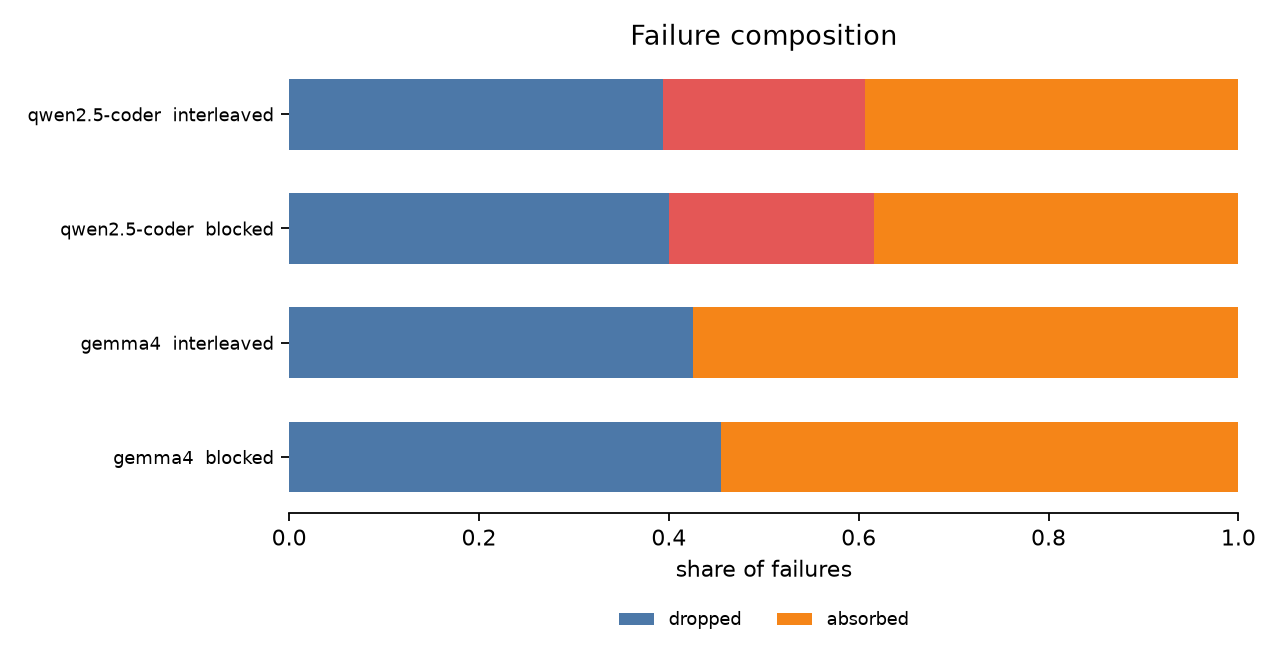
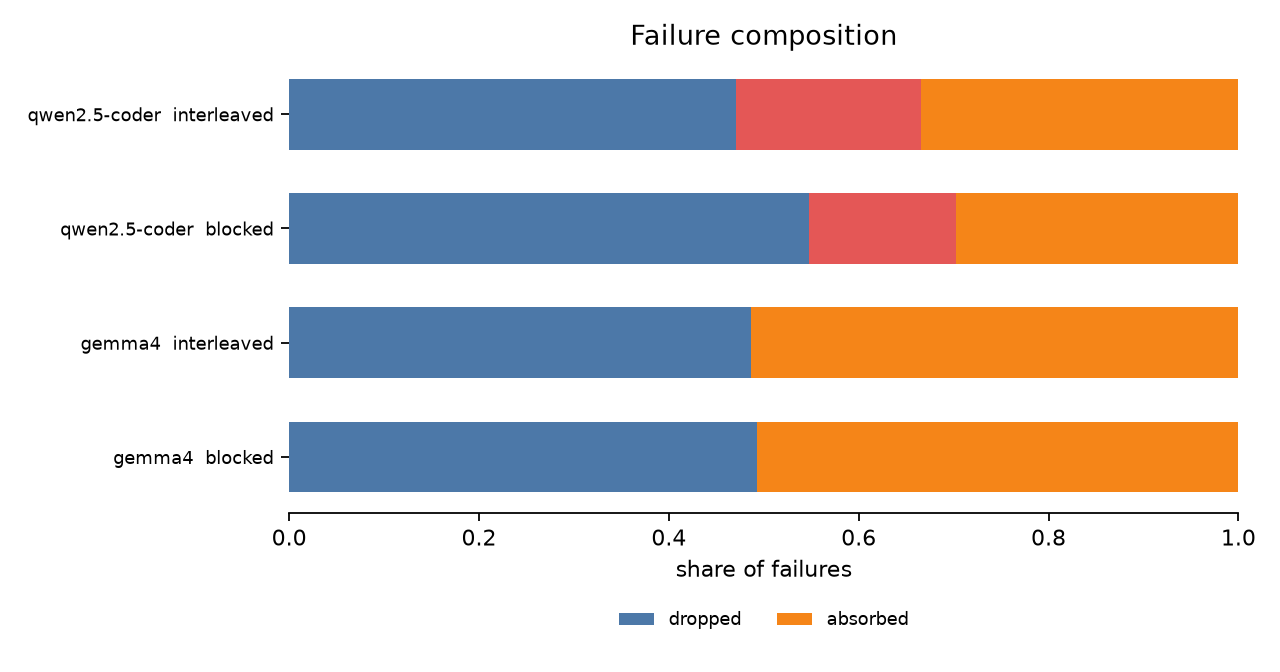
same_kind_2 resolves the confound: similarity drives misattribution, not task count
The decisive cell ran. On qwen2.5-coder:7b, holding same-kind pairs at 1 and
raising task count 2 -> 3 moves misattribution 12 -> 8, DOWN; holding task count
at 2 and raising pairs 0 -> 1 moves it 0 -> 12. The claim I nearly published --
that misattribution scales with concurrent task count -- was wrong.

Corrects a second claim I had already written into four files. I read the ordering
split off tasks_4 alone (25 blocked / 34 interleaved, 1.4x) and concluded
interleaving was incidental. The clean cell is 2 blocked / 10 interleaved, 5x.
Accurate statement: similarity is NECESSARY (zero events in every zero-pair cell
under both orderings, 200 conversations) and interleaving AMPLIFIES it 1.7x
overall, but is not required -- blocked produces 29 of 79 events.

Unanticipated result from the same cell: at identical task count, ops and padding,
a second shopping list instead of a calendar takes qwen from 0.640 blocked to
0.000. Two similar tasks are harder than four dissimilar ones (0.400). That cell
is on the floor so its ordering delta is uninterpretable; gemma4:12b's copy is not
(0.880 -> 0.720) and logs zero misattribution across all 350 of its conversations.

Full sweep: 700 rows, 700/700 token-matched, zero drift. 591 tests green.

Claude-Session: https://claude.ai/code/session_01GsfWd5EhxNP3EDk11DMtDE

diff --git a/tools/make_readme_results.py b/tools/make_readme_results.py
@@ -150,13 +150,14 @@ else:
         f"\nTwo things keep this from being a clean task-count effect. First, kinds have "
         f"disjoint vocabularies, so a same-kind pair is the *only* place a misattribution "
         f"can occur — and under the canonical composition the pair count rises in lockstep "
-        f"with the task count, so the two cannot be separated by the count cells alone. "
-        f"That is what the `same_kind_2` cell exists to break. Second, the events split "
-        f"{by_ord['blocked']} blocked / {by_ord['interleaved']} interleaved: substantial "
-        f"misattribution happens in *blocked* ordering, where same-kind lists are never "
-        f"interleaved with each other at all. Similarity drives the bulk of it and "
-        f"ordering modulates it. The joint-accuracy delta above is a genuine ordering "
-        f"effect; this count largely is not.")
+        f"with the task count. The `same_kind_2` cell breaks that collinearity: at one "
+        f"same-kind pair, raising the task count from 2 to 3 moves the event count *down*, "
+        f"while at two tasks, raising the pair count from 0 to 1 moves it from zero. "
+        f"Similarity drives misattribution; task count does not. Second, the events split "
+        f"{by_ord['blocked']} blocked / {by_ord['interleaved']} interleaved: interleaving "
+        f"amplifies the count substantially, but blocked ordering — where same-kind lists "
+        f"never interleave — still produces a large share, so interleaving is an amplifier "
+        f"rather than the cause. See docs/LIMITATIONS.md 5b.")
 
 per_task, clusters = [], []
 for r in rows:

diff --git a/docs/LIMITATIONS.md b/docs/LIMITATIONS.md
@@ -186,64 +186,95 @@ raise misattribution sharply.
 
 ---
 
-## 5b. Misattribution tracks same-kind *pairs*, which this design cannot separate from task count
+## 5b. Misattribution is driven by similarity, not by task count — the confound, and how it resolved
 
-This is the sharpest confound in the new arm, and it undercuts the obvious reading of the
-headline number.
+The task-count arm produced a clean monotone story: misattribution **0 → 8 → 59** across
+2, 3 and 4 tasks. The obvious reading is that concurrent tasks interfere and more tasks
+interfere more. That reading was not identified by the data.
 
 `tasks_for(n)` deals from `TASK_POOL = [SHOPPING, SCHEDULE]` round-robin, so the number of
 *same-kind pairs* — the only pairs between which misattribution is even possible, since
-the vocabularies of different kinds are disjoint — rises in lockstep with task count:
+different kinds draw disjoint vocabularies — rose in lockstep with task count. Pair count
+and task count were perfectly collinear across every cell in the sweep, so the design
+could not attribute the effect to either.
 
-| tasks | slots | same-kind pairs | misattribution events |
-|---:|---|---:|---:|
-| 1 | `shopping_0` | 0 | 0 |
-| 2 | `shopping_0, schedule_0` | 0 | 0 |
-| 3 | `+ shopping_1` | 1 | 8 |
-| 4 | `+ schedule_1` | 2 | 59 |
+`same_kind_2` (`tasks: [shopping, shopping]`, D18) breaks the collinearity: two tasks, one
+same-kind pair. **`qwen2.5-coder:7b`:**
 
-Pair count and task count are perfectly collinear across the cells actually run. So the
-claim the data supports is **"misattribution requires a confusable neighbour,"** not
-"misattribution grows with the number of concurrent tasks." Those are different claims
-and I can only demonstrate the first. A 4-task conversation over four *distinct* kinds
-might show none at all.
+| condition | tasks | same-kind pairs | misattribution events | conversations |
+|---|---:|---:|---:|---|
+| `len_medium` | 2 | 0 | 0 | 0/50 |
+| **`same_kind_2`** | **2** | **1** | **12** | 6/50 |
+| `tasks_3` | 3 | 1 | 8 | 5/50 |
+| `tasks_4` | 4 | 2 | 59 | 23/50 |
 
-**The experiment that separates them is one config line, and it is now shipped.** The
-`same_kind_2` cell is `tasks: [shopping, shopping]` — two tasks, one same-kind pair —
-which breaks the collinearity:
+Read the middle two rows against each other: **pair count held at 1, task count raised
+from 2 to 3, and misattribution went 12 → 8** — down, not up. Read the first two: task
+count held at 2, pair count raised from 0 to 1, and it went **0 → 12**.
 
-| cell | tasks | same-kind pairs |
-|---|---:|---:|
-| `len_medium` | 2 | 0 |
-| `same_kind_2` | 2 | **1** |
-| `tasks_3` | 3 | 1 |
+**Task count does not drive misattribution. A confusable neighbour does.** The claim I
+nearly published — that misattribution scales with the number of concurrent tasks — was
+wrong, and the arm that appeared to show it would have shown it just as convincingly if
+the mechanism had been anything else that happened to co-vary.
 
-`len_medium` and `same_kind_2` hold task count fixed and vary pair count; `same_kind_2`
-and `tasks_3` hold pair count fixed and vary task count. Misattribution in `same_kind_2`
-means similarity is the driver and the count is incidental; none means the count matters
-in its own right.
+What remains unseparated is the jump at two pairs (8–12 events at one pair, 59 at two).
+That is superlinear rather than additive, but `tasks_4` is the only two-pair cell, so
+whether that is a pair-count effect or a four-task effect is exactly the ambiguity this
+section began with, one level up. Saying so is cheaper than running the cell that would
+settle it, and I have not run it.
 
-Making this expressible needed a real change, not just a config edit — cells were
-specified by *count* only, and the cell id `t{n}_o{ops}_n{noise}` could not tell
-`[shopping, schedule]` from `[shopping, shopping]` (D18). The library never assumed
-distinct kinds; `build_states`, `order_ops` and the scorer all key on slot, so the
-constraint was entirely in the CLI.
+### Similarity is necessary; interleaving amplifies it
 
-### Interleaving is not the main cause of misattribution
+Splitting the events by ordering, on qwen:
 
-Splitting the events by ordering is deflationary in a way worth saying out loud:
+| cell | same-kind pairs | blocked | interleaved | ratio |
+|---|---:|---:|---:|---:|
+| every zero-pair cell | 0 | 0 | 0 | — |
+| `same_kind_2` | 1 | 2 (1/25 convs) | 10 (5/25 convs) | 5.0x |
+| `tasks_3` | 1 | 2 (1/25) | 6 (4/25) | 3.0x |
+| `tasks_4` | 2 | 25 (11/25) | 34 (12/25) | 1.4x |
+| **total** | | **29** | **50** | **1.7x** |
 
-| cell | blocked | interleaved |
-|---|---:|---:|
-| 3 tasks | 2 events (1/25 convs) | 6 events (4/25 convs) |
-| 4 tasks | 25 events (11/25 convs) | 34 events (12/25 convs) |
+Two claims, and only the first is about the design's headline variable:
 
-Misattribution is substantial in *blocked* ordering, where the two shopping lists are
-never interleaved with each other at all. Interleaving adds roughly a third on top. So the
-mechanism is mostly "two similar states in one context bleed together," with ordering as a
-secondary modulator — **not** "switching between them causes the bleed." The joint-accuracy
-delta remains a genuine ordering effect; the misattribution count largely is not, and
-reporting it as one would overclaim.
+1. **Similarity is necessary.** Zero events in every zero-pair cell, under *both*
+   orderings, across 200 qwen conversations. No amount of interleaving produces a
+   misattribution when there is nothing confusable to misattribute to.
+2. **Interleaving amplifies it substantially** — 1.7x overall, and 5x in `same_kind_2`,
+   the cleanest cell. It is not merely a modulator.
+
+But it is not *required*: blocked ordering produces 29 events, so a design that only ever
+presented tasks in blocks would still have found the failure. I first wrote this
+subsection reading only `tasks_4`, whose 1.4x ratio is the weakest in the table, and
+concluded interleaving was incidental. Reading the cell that was built to be clean says
+otherwise. The lesson is the one this document keeps relearning: the cell with the most
+events is not the cell with the most signal.
+
+### Similarity costs far more accuracy than task count does
+
+The same cell produced a second result I did not anticipate. At **identical** task count,
+operation count and padding, swapping the second task from a different kind to the same
+kind costs `qwen2.5-coder:7b` its entire score:
+
+| qwen cell | second task | blocked joint accuracy |
+|---|---|---:|
+| `len_medium` | a calendar | 0.640 |
+| `same_kind_2` | a second shopping list | **0.000** |
+| `tasks_4` | three more tasks | 0.400 |
+
+Two *similar* tasks are harder than four *dissimilar* ones. `gemma4:12b` shows the same
+sign at a fraction of the size (0.880 → 0.720) and **zero misattribution in all 350 of its
+conversations**, including both same-kind cells — it keeps two shopping lists apart where
+qwen cannot.
+
+**Two caveats on this cell.** First, qwen's `same_kind_2` sits on the **floor** (0.000
+blocked, 0.040 interleaved), so its ordering delta is uninterpretable — you cannot fall
+below zero. It answers "does similarity hurt?" decisively and "does interleaving hurt when
+tasks are similar?" not at all. Lifting it off the floor needs a lower `n_ops` for that
+cell, which is the same per-cell calibration gap as §4. gemma's copy is not at the floor,
+so its +4.0pp is interpretable, and it shows no switch cost. Second, "similarity" here
+bundles same-kind structure with overlapping item semantics; the design does not separate
+those two either.
 
 ---
 

diff --git a/results/RESULTS.md b/results/RESULTS.md
@@ -20,11 +20,14 @@ value there would invalidate everything below it.
 | `gemma4:12b` | len_short *(exploratory)* | 25 | 0.80 <sub>[0.61,0.91]</sub> | 0.88 <sub>[0.70,0.96]</sub> | +8.0 | [+0.0, +20.0] | 0/2 | 0.500 |
 | `gemma4:12b` | len_medium *(exploratory)* | 25 | 0.88 <sub>[0.70,0.96]</sub> | 0.96 <sub>[0.80,0.99]</sub> | +8.0 | [+0.0, +20.0] | 0/2 | 0.500 |
 | `gemma4:12b` | len_long *(exploratory)* | 25 | 0.96 <sub>[0.80,0.99]</sub> | 0.84 <sub>[0.65,0.94]</sub> | -12.0 | [-28.0, +4.0] | 4/1 | 0.375 |
+| `gemma4:12b` | same_kind_2 *(exploratory)* | 25 | 0.72 <sub>[0.52,0.86]</sub> | 0.76 <sub>[0.57,0.89]</sub> | +4.0 | [-16.0, +24.0] | 3/4 | 1.000 |
 | `gemma4:12b` | tasks_3 *(exploratory)* | 25 | 0.68 <sub>[0.48,0.83]</sub> | 0.64 <sub>[0.45,0.80]</sub> | -4.0 | [-24.0, +16.0] | 4/3 | 1.000 |
+| `gemma4:12b` | tasks_4 *(exploratory)* | 25 | 0.72 <sub>[0.52,0.86]</sub> | 0.64 <sub>[0.45,0.80]</sub> | -8.0 | [-28.0, +12.0] | 4/2 | 0.688 |
 | `qwen2.5-coder:7b` | ctrl_1task *(control)* | 25 | 0.32 <sub>[0.17,0.52]</sub> | 0.32 <sub>[0.17,0.52]</sub> | +0.0 | [+0.0, +0.0] | 0/0 | 1.000 |
 | `qwen2.5-coder:7b` | len_short *(exploratory)* | 25 | 0.84 <sub>[0.65,0.94]</sub> | 0.68 <sub>[0.48,0.83]</sub> | -16.0 | [-36.0, +0.0] | 5/1 | 0.219 |
 | `qwen2.5-coder:7b` | len_medium **(PRIMARY)** | 25 | 0.64 <sub>[0.45,0.80]</sub> | 0.52 <sub>[0.33,0.70]</sub> | -12.0 | [-36.0, +12.0] | 6/3 | 0.508 |
 | `qwen2.5-coder:7b` | len_long *(exploratory)* | 25 | 0.56 <sub>[0.37,0.73]</sub> | 0.44 <sub>[0.27,0.63]</sub> | -12.0 | [-36.0, +12.0] | 6/3 | 0.508 |
+| `qwen2.5-coder:7b` | same_kind_2 *(exploratory)* | 25 | 0.00 <sub>[0.00,0.13]</sub> | 0.04 <sub>[0.01,0.20]</sub> | +4.0 | [+0.0, +12.0] | 0/1 | 1.000 |
 | `qwen2.5-coder:7b` | tasks_3 *(exploratory)* | 25 | 0.40 <sub>[0.23,0.59]</sub> | 0.20 <sub>[0.09,0.39]</sub> | -20.0 | [-36.0, -4.0] | 5/0 | 0.062 |
 | `qwen2.5-coder:7b` | tasks_4 *(exploratory)* | 25 | 0.40 <sub>[0.23,0.59]</sub> | 0.12 <sub>[0.04,0.30]</sub> | -28.0 | [-48.0, -8.0] | 8/1 | 0.039 |
 
@@ -32,21 +35,21 @@ value there would invalidate everything below it.
 
 | model | ordering | dropped | misattributed | absorbed | format | n failures |
 |---|---|---:|---:|---:|---:|---:|
-| `gemma4:12b` | blocked | 48% | 0% | 52% | 0% | 44 |
-| `gemma4:12b` | interleaved | 44% | 0% | 56% | 0% | 39 |
-| `qwen2.5-coder:7b` | blocked | 40% | 22% | 38% | 0% | 125 |
-| `qwen2.5-coder:7b` | interleaved | 39% | 21% | 39% | 0% | 188 |
+| `gemma4:12b` | blocked | 49% | 0% | 51% | 0% | 73 |
+| `gemma4:12b` | interleaved | 49% | 0% | 51% | 0% | 72 |
+| `qwen2.5-coder:7b` | blocked | 55% | 15% | 30% | 0% | 188 |
+| `qwen2.5-coder:7b` | interleaved | 47% | 19% | 33% | 0% | 257 |
 
 ### What actually goes wrong
 
 | failure mode | count | share |
 |---|---:|---:|
-| dropped / vanished | 154 | 38.9% |
-| absorbed / hallucination | 87 | 22.0% |
-| absorbed / false assertion | 70 | 17.7% |
-| misattributed | 67 | 16.9% |
-| absorbed / stale value | 10 | 2.5% |
-| dropped / wrong value | 8 | 2.0% |
+| dropped / vanished | 287 | 48.6% |
+| absorbed / hallucination | 117 | 19.8% |
+| absorbed / false assertion | 89 | 15.1% |
+| misattributed | 79 | 13.4% |
+| absorbed / stale value | 10 | 1.7% |
+| dropped / wrong value | 8 | 1.4% |
 
 **Misattribution occurred, and the obvious reading of it is wrong.**
 
@@ -56,14 +59,15 @@ value there would invalidate everything below it.
 | len_short | 2 | 0 | 0 | 0/100 |
 | len_medium | 2 | 0 | 0 | 0/100 |
 | len_long | 2 | 0 | 0 | 0/100 |
+| same_kind_2 | 2 | 1 | 12 | 6/100 |
 | tasks_3 | 3 | 1 | 8 | 5/100 |
-| tasks_4 | 4 | 2 | 59 | 23/50 |
+| tasks_4 | 4 | 2 | 59 | 23/100 |
 
-Two things keep this from being a clean task-count effect. First, kinds have disjoint vocabularies, so a same-kind pair is the *only* place a misattribution can occur — and under the canonical composition the pair count rises in lockstep with the task count, so the two cannot be separated by the count cells alone. That is what the `same_kind_2` cell exists to break. Second, the events split 27 blocked / 40 interleaved: substantial misattribution happens in *blocked* ordering, where same-kind lists are never interleaved with each other at all. Similarity drives the bulk of it and ordering modulates it. The joint-accuracy delta above is a genuine ordering effect; this count largely is not.
+Two things keep this from being a clean task-count effect. First, kinds have disjoint vocabularies, so a same-kind pair is the *only* place a misattribution can occur — and under the canonical composition the pair count rises in lockstep with the task count. The `same_kind_2` cell breaks that collinearity: at one same-kind pair, raising the task count from 2 to 3 moves the event count *down*, while at two tasks, raising the pair count from 0 to 1 moves it from zero. Similarity drives misattribution; task count does not. Second, the events split 29 blocked / 50 interleaved: interleaving amplifies the count substantially, but blocked ordering — where same-kind lists never interleave — still produces a large share, so interleaving is an amplifier rather than the cause. See docs/LIMITATIONS.md 5b.
 
 ### Validation counters
 
-- **Token match:** 550/550 conversations exact (0 drifted), verified against Ollama's `prompt_eval_count`.
-- **Parse rate:** 550/550 (100.0%) under schema-constrained decoding.
-- **Per-task accuracy:** 0.766, clustered SE 0.0183 vs naive SE 0.0122 — ratio **1.50x** (the naive SE understates uncertainty).
-- **Rows:** 550 conversations across 11 model-condition cells.
+- **Token match:** 700/700 conversations exact (0 drifted), verified against Ollama's `prompt_eval_count`.
+- **Parse rate:** 700/700 (100.0%) under schema-constrained decoding.
+- **Per-task accuracy:** 0.767, clustered SE 0.0147 vs naive SE 0.0106 — ratio **1.40x** (the naive SE understates uncertainty).
+- **Rows:** 700 conversations across 14 model-condition cells.

diff --git a/README.md b/README.md
@@ -52,12 +52,30 @@ Both models degrade monotonically as live states are added, and neither shows a 
 trend. The magnitude is strongly model-specific — qwen loses 28 points at four tasks
 (p=0.039), gemma 8 — so this is a shape both models share, not a constant.
 
-**Read the task-count arm with its confound attached.** Under the canonical composition
-the number of *same-kind pairs* rises in lockstep with task count, and a same-kind pair is
-the only place a misattribution can occur. The `same_kind_2` cell exists to separate them
-(§5b). Splitting the events by ordering is deflationary too: most misattribution happens
-in **blocked** ordering, where same-kind lists never interleave. Interleaving costs
-accuracy; similarity costs attribution; the task-count cells vary both at once.
+**Read the task-count arm with its confound attached — and then read the cell that
+resolves it.** Under the canonical composition the number of *same-kind pairs* rises in
+lockstep with task count, and a same-kind pair is the only place a misattribution can
+occur. `same_kind_2` (two tasks, one same-kind pair) breaks the collinearity, on
+`qwen2.5-coder:7b`:
+
+| cell | tasks | same-kind pairs | misattribution |
+|---|---:|---:|---:|
+| `len_medium` | 2 | 0 | 0 |
+| **`same_kind_2`** | **2** | **1** | **12** |
+| `tasks_3` | 3 | 1 | 8 |
+| `tasks_4` | 4 | 2 | 59 |
+
+Hold pairs at 1 and raise tasks 2 → 3: misattribution goes **12 → 8**. Hold tasks at 2 and
+raise pairs 0 → 1: **0 → 12**. **Similarity drives misattribution; task count does not.**
+Interleaving amplifies it 1.7x overall (5x in `same_kind_2`) but is not required —
+blocked ordering produces 29 of the 79 events. `gemma4:12b` records **zero misattribution
+in all 350 of its conversations**, same-kind cells included.
+
+That cell also produced the largest single effect in the sweep. At identical task count,
+operations and padding, swapping the second task from a calendar to a second shopping list
+takes qwen from **0.640 blocked to 0.000** — two *similar* tasks are harder than four
+*dissimilar* ones (0.400). It is on the floor, so its ordering delta says nothing; gemma's
+copy is not (0.880 → 0.720, zero misattribution) and shows no switch cost.
 
 ![switch cost](results/dumbbell.png)
 
@@ -149,11 +167,14 @@ analysis in [`results/POWER.md`](results/POWER.md).
 | `gemma4:12b` | len_short | 0.800 | 0.880 | +8.0 | 0/2 | 0.500 |
 | `gemma4:12b` | len_medium | 0.880 | 0.960 | +8.0 | 0/2 | 0.500 |
 | `gemma4:12b` | len_long | 0.960 | 0.840 | -12.0 | 4/1 | 0.375 |
+| `gemma4:12b` | same_kind_2 | 0.720 | 0.760 | +4.0 | 3/4 | 1.000 |
 | `gemma4:12b` | tasks_3 | 0.680 | 0.640 | -4.0 | 4/3 | 1.000 |
+| `gemma4:12b` | tasks_4 | 0.720 | 0.640 | -8.0 | 4/2 | 0.688 |
 | `qwen2.5-coder:7b` | ctrl_1task *(control)* | 0.320 | 0.320 | +0.0 | 0/0 | 1.000 |
 | `qwen2.5-coder:7b` | len_short | 0.840 | 0.680 | -16.0 | 5/1 | 0.219 |
 | `qwen2.5-coder:7b` | **len_medium (PRIMARY)** | 0.640 | 0.520 | -12.0 | 6/3 | 0.508 |
 | `qwen2.5-coder:7b` | len_long | 0.560 | 0.440 | -12.0 | 6/3 | 0.508 |
+| `qwen2.5-coder:7b` | same_kind_2 | 0.000 | 0.040 | +4.0 | 0/1 | 1.000 |
 | `qwen2.5-coder:7b` | tasks_3 | 0.400 | 0.200 | -20.0 | 5/0 | 0.062 |
 | `qwen2.5-coder:7b` | tasks_4 | 0.400 | 0.120 | **-28.0** | 8/1 | **0.039** |
 <!-- END:results-table -->

diff --git a/docs/TALK.md b/docs/TALK.md
@@ -136,16 +136,34 @@ Two things I did about it:
 1. **Reported the weaker claim.** The data support "misattribution needs a confusable
    neighbour," not "misattribution grows with task count." A 4-task conversation over four
    *distinct* kinds might show none.
-2. **Split the events by ordering**, which is further deflationary: 4 tasks is
-   **25 blocked vs 34 interleaved**. Substantial misattribution occurs in *blocked*
-   ordering, where the two shopping lists are never interleaved with each other. So
-   similarity drives the bulk and ordering modulates it by about a third. The
-   joint-accuracy delta is a genuine ordering effect; the misattribution count largely is
-   not, and reporting it as one would have overclaimed.
+2. **Split the events by ordering**, which showed interleaving is an amplifier rather than
+   the cause: 1.7x overall, and blocked ordering still produces 29 of the 79 events. I
+   first read only `tasks_4` (1.4x, the weakest ratio in the table) and concluded
+   interleaving was incidental — the cleanest cell says 5x, so that was wrong too. The
+   cell with the most events was not the cell with the most signal.
 
-**And built the experiment that settles it** (D18): `same_kind_2` is `[shopping, shopping]`
-— two tasks, one same-kind pair. Against `len_medium` it holds task count fixed and varies
-pair count; against `tasks_3` it holds pair count fixed and varies task count.
+**And built the experiment that settles it** (D18): `same_kind_2` is
+`[shopping, shopping]` — two tasks, one same-kind pair. Against `len_medium` it holds task
+count fixed and varies pair count; against `tasks_3` it holds pair count fixed and varies
+task count. **It resolved cleanly:**
+
+| qwen cell | tasks | same-kind pairs | misattribution |
+|---|---:|---:|---:|
+| `len_medium` | 2 | 0 | 0 |
+| `same_kind_2` | 2 | 1 | **12** |
+| `tasks_3` | 3 | 1 | 8 |
+| `tasks_4` | 4 | 2 | 59 |
+
+Pairs fixed, tasks 2 → 3: **12 → 8**, down. Tasks fixed, pairs 0 → 1: **0 → 12**.
+Similarity drives it; task count does not. The sentence I had written was wrong, and the
+one-line cell is what showed it.
+
+It also produced the sweep's largest effect, which I did not predict: at identical task
+count, ops and padding, a second *shopping list* instead of a calendar takes qwen from
+0.640 blocked to **0.000** — two similar tasks are harder than four dissimilar ones.
+Caveat in the same breath: that is the floor, so its ordering delta is uninterpretable.
+`gemma4:12b` is not at the floor (0.880 → 0.720) and logs **zero misattribution in all 350
+of its conversations**.
 
 *If asked "why not just add more task types?"* — four distinct kinds would break the
 collinearity too, but it needs two more state machines, vocabularies and template sets, and

diff --git a/CHANGELOG.md b/CHANGELOG.md
@@ -30,12 +30,17 @@
   same-kind pair is the only place misattribution can occur. So the data support
   "misattribution needs a confusable neighbour", not "misattribution grows with task
   count". (LIMITATIONS 5b)
-- **Interleaving is not the main cause of misattribution.** Splitting by ordering:
-  4 tasks is 25 events blocked vs 34 interleaved; 3 tasks is 2 vs 6. Substantial
-  misattribution occurs in *blocked* ordering, where the two shopping lists are never
-  interleaved with each other. Ordering modulates it by roughly a third; similarity
-  drives the rest. The joint-accuracy delta remains a genuine ordering effect — the
-  misattribution count largely is not.
+- **Similarity is necessary for misattribution; interleaving amplifies it.** Zero events
+  in every zero-pair cell under *both* orderings, across 200 qwen conversations. Given a
+  same-kind pair, interleaving raises the count 1.7x overall and 5x in `same_kind_2`
+  (2 blocked vs 10 interleaved) -- but blocked ordering still produces 29 of the 79 events,
+  so interleaving is an amplifier, not the cause. I first wrote this reading only
+  `tasks_4`, whose 1.4x ratio is the weakest in the table, and concluded the opposite.
+- **Similarity costs far more accuracy than task count.** At identical task count, ops and
+  padding, swapping the second task from a calendar to a second shopping list takes
+  qwen2.5-coder:7b from 0.640 blocked to **0.000** -- worse than four dissimilar tasks
+  (0.400). gemma4:12b shows the same sign at a fraction of the size (0.880 -> 0.720) and
+  **zero misattribution across all 350 of its conversations**.
 
 ### Fixed
 - `cell.get("tasks", cell["n_tasks"])` evaluated its default eagerly and raised

diff --git a/results/POWER.md b/results/POWER.md
@@ -1,0 +1,37 @@
+## Observed discordance
+
+`b` = interleaving broke it, `c` = interleaving fixed it. Concordant pairs carry
+no information about ordering, so the discordant share IS the usable sample.
+
+| model | cell | n | b | c | discordant |
+|---|---|---:|---:|---:|---:|
+| `gemma4:12b` | ctrl_1task | 25 | 0 | 0 | 0% |
+| `gemma4:12b` | len_long | 25 | 4 | 1 | 20% |
+| `gemma4:12b` | len_medium | 25 | 0 | 2 | 8% |
+| `gemma4:12b` | len_short | 25 | 0 | 2 | 8% |
+| `gemma4:12b` | same_kind_2 | 25 | 3 | 4 | 28% |
+| `gemma4:12b` | tasks_3 | 25 | 4 | 3 | 28% |
+| `gemma4:12b` | tasks_4 | 25 | 4 | 2 | 24% |
+| `qwen2.5-coder:7b` | ctrl_1task | 25 | 0 | 0 | 0% |
+| `qwen2.5-coder:7b` | len_long | 25 | 6 | 3 | 36% |
+| `qwen2.5-coder:7b` | len_medium | 25 | 6 | 3 | 36% |
+| `qwen2.5-coder:7b` | len_short | 25 | 5 | 1 | 24% |
+| `qwen2.5-coder:7b` | same_kind_2 | 25 | 0 | 1 | 4% |
+| `qwen2.5-coder:7b` | tasks_3 | 25 | 5 | 0 | 20% |
+| `qwen2.5-coder:7b` | tasks_4 | 25 | 8 | 1 | 36% |
+
+Mean discordance across non-control cells: **23%**
+
+## Power
+
+Simulated, exact McNemar, alpha = 0.05, discordance 23%, 400 replicates per cell.
+
+| true effect | n=30 | n=60 | n=120 | n=240 | n=480 |
+|---|---:|---:|---:|---:|---:|
+| 6.8 pp | 5% | 14% | 25% | 56% | 88% |
+| 11.3 pp | 14% | 32% | 70% | 95% | 100% |
+| 15.9 pp | 28% | 71% | 96% | 100% | 100% |
+
+**Read this before reading any null in the results.** At n=30 this design has
+roughly 15% power against a 12-point effect. A non-significant cell is evidence
+of insufficient sample, not evidence of no effect.
